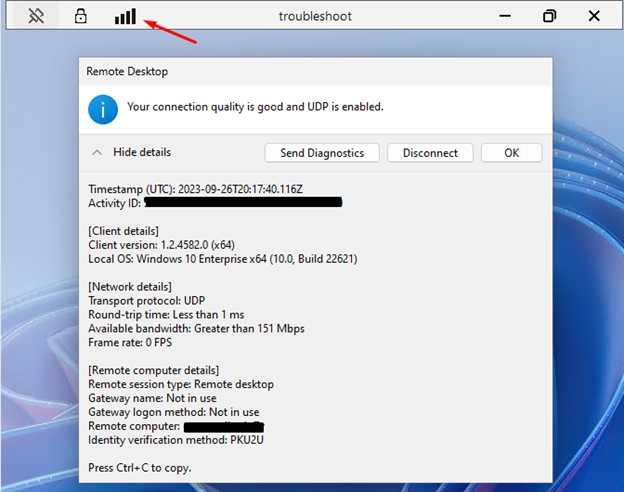
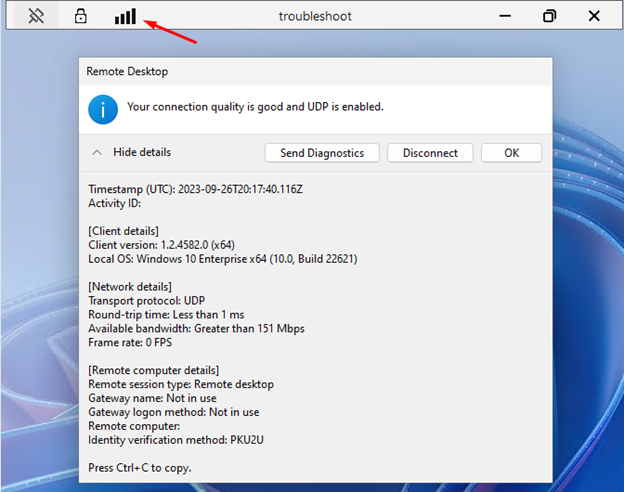
Fixing blocking issues

Changed region(s): [[0.2131, 0.3963, 0.5481, 0.4268], [0.274, 0.8537, 0.4263, 0.8841]]

diff --git a/virtual-desktop/troubleshoot-client-windows-basic-shared.md b/virtual-desktop/troubleshoot-client-windows-basic-shared.md
@@ -1,6 +1,6 @@
 ---
 title: Basic troubleshooting for the Remote Desktop client for Windows - Azure Virtual Desktop
-description: Troubleshoot issues you may experience with the Remote Desktop client for Windows when connecting to Azure Virtual Desktop, Windows 365, and Dev Box.
+description: Troubleshoot issues you might experience with the Remote Desktop client for Windows when connecting to Azure Virtual Desktop, Windows 365, and Dev Box.
 ms.topic: troubleshooting
 zone_pivot_groups: azure-virtual-desktop-windows-client-troubleshoot
 author: dknappettmsft
